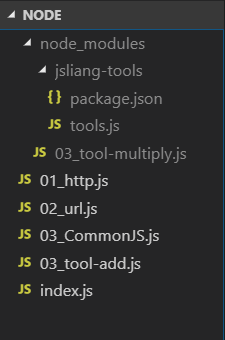
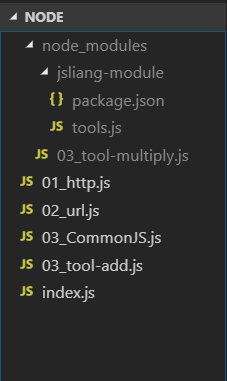
Node 基础

diff --git a/other-library/Node/NodeBase.md b/other-library/Node/NodeBase.md
@@ -458,7 +458,7 @@ console.log(url.resolve("http://www.baidu.com/jsliang", "梁峻荣"));
 
 ![图](../../public-repertory/img/other-node-NodeBase-3.png)
 
-&emsp;这一章节中，我们新建了 `03_CommonJS.js`、`03_tool-add.js`、`node_modules/tools`、`node_modules/jsliang-tools/tools.js` 这 4 个文件/文件夹，其中 `package.json` 我们暂且不理会，稍后会讲解它如何自动生成。
+&emsp;这一章节中，我们新建了 `03_CommonJS.js`、`03_tool-add.js`、`node_modules/03_tool-multiply.js`、`node_modules/jsliang-module/tools.js` 这 4 个文件/文件夹，其中 `package.json` 我们暂且不理会，稍后会讲解它如何自动生成。
 
 &emsp;在 `03_tool-add.js` 中：
 
@@ -535,9 +535,114 @@ http.createServer(function (req, res) {
 
 <br>
 
+&emsp;**然后**，当我们模块文件过多的时候，应该需要有个存放这些模块的目录，Node 就很靠谱，它规范我们可以将这些文件都放在 `node_modules` 目录中（大家都放在这个目录上，就不会有其他乱七八糟的命名了）。  
+
+&emsp;所以，我们在 `node_modules` 中新建一个 `03_tool-multiply.js` 文件，其内容如下：
+
+> 03_tool-multiply.js
+
 ```
-npm init --yes
+var tools = {
+  multiply: (...numbers) => {
+    let sum = numbers[0];
+    for (let number in numbers) {
+      sum = sum * numbers[number];
+    }
+    return sum;
+  }
+}
+
+module.exports = tools;
 ```
+
+&emsp;在引用方面，我们只需要通过：
+```
+// 如果 Node 在当前目录没找到 tool.js 文件，则会去 node_modules 里面去查找
+var tools2 = require('03_tool-multiply');
+
+console.log(tools2.multiply(1, 2, 3, 4));
+```
+
+&emsp;这样，就可以成功导入 `03_tool-multiply.js` 文件了。
+
+<br>
+
+&emsp;最后，如果全部单个文件丢在 `node_modules` 上，它会显得杂乱无章，所以我们应该定义个自己的模块：`jsliang-module`，然后将我们的 `tools.js` 存放在该目录中：
+
+> jsliang-module/tools.js
+
+```
+var tools = {
+  add: (...numbers) => {
+    let sum = 0;
+    for (let number in numbers) {
+      sum += numbers[number];
+    }
+    return sum;
+  },
+  multiply: (...numbers) => {
+    let sum = numbers[0];
+    for (let number in numbers) {
+      sum = sum * numbers[number];
+    }
+    return sum;
+  }
+}
+
+module.exports = tools;
+```
+
+<br>
+
+&emsp;这样，我们就定义好了自己的工具库。  
+&emsp;但是，如果我们通过 `var tools3 = require('jsliang-module');` 去导入，会发现它报 `error` 了，所以，我们应该在 `jsliang-module` 目录下，通过下面命令行生成一个 `package.json`
+
+> PS E:\MyWeb\node_modules\jsliang-module> npm init --yes
+
+&emsp;这样，在 `jsliang-module` 中就有了 `package.json`。  
+&emsp;而我们在 `03_CommonJS.js` 就可以引用它了：
+
+> 03_CommonJS.js
+
+```
+var http = require("http");
+
+var tools1 = require('./03_tool-add');
+// 如果 Node 在当前目录没找到 tool.js 文件，则会去 node_modules 里面去查找
+var tools2 = require('03_tool-multiply');
+// 通过 package.json 来引用文件
+var tools3 = require('jsliang-module');
+
+http.createServer(function (req, res) {
+
+  res.writeHead(200, {
+    "Content-Type": "text/html;charset=UTF-8"
+  });
+
+  res.write('<h1 style="text-align:center">Hello NodeJS</h1>');
+  
+  console.log(tools1.add(1, 2, 3));
+  console.log(tools2.multiply(1, 2, 3, 4));
+  console.log(tools3.add(4, 5, 6));
+  /**
+   * Console：
+   * 6
+   * 24
+   * 15
+   * 6
+   * 24
+   * 15
+   * 这里要记得，它请求了两次，
+   * http://localhost:3000/ 为一次，
+   * http://localhost:3000/favicon.ico 为第二次
+   */
+  
+  res.end();
+
+}).listen(3000);
+```
+
+&emsp;这样，我们就通过三种方法，了解了各种 `exports` 和 `require` 的姿势以及 Node 模块化的概念啦~
 
 <br>
 
